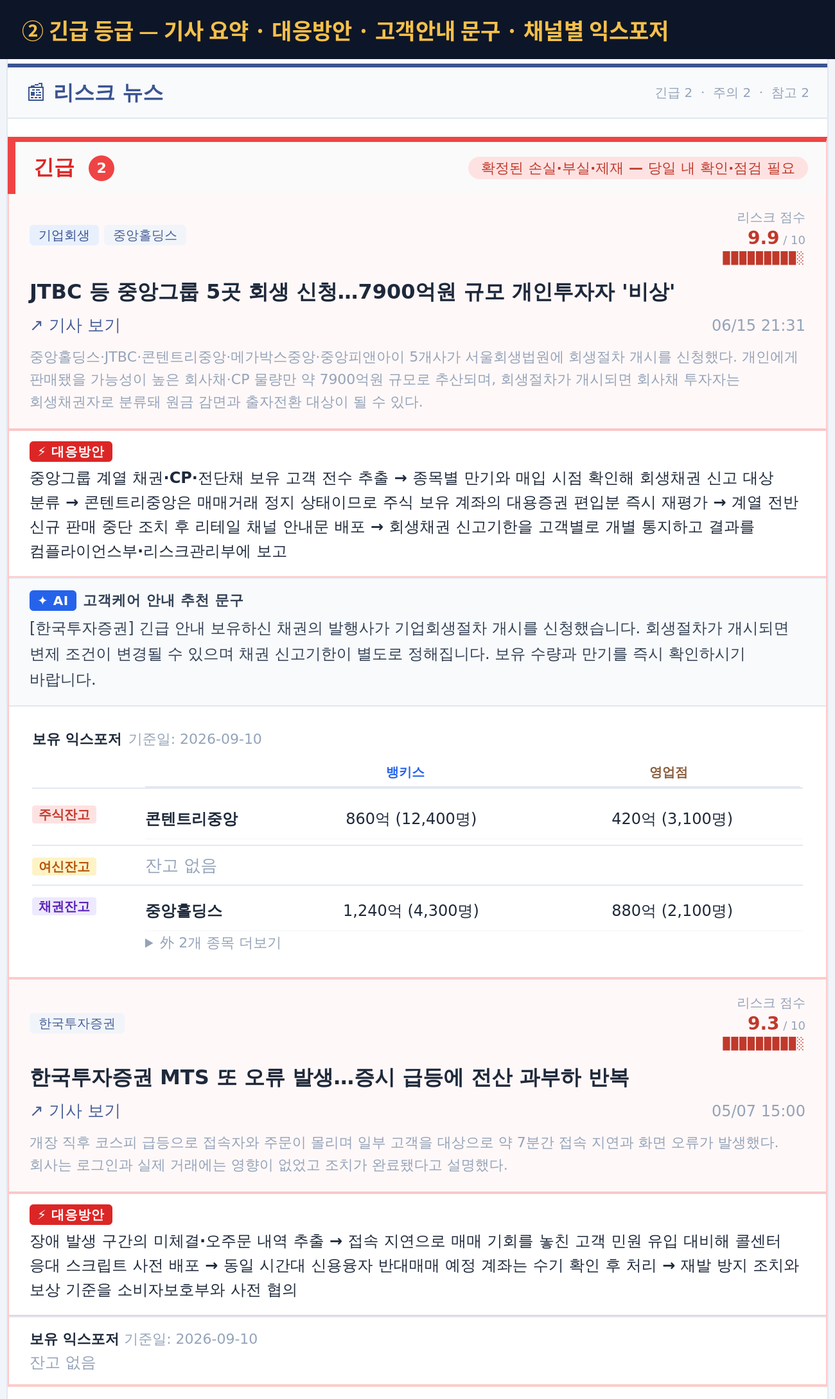
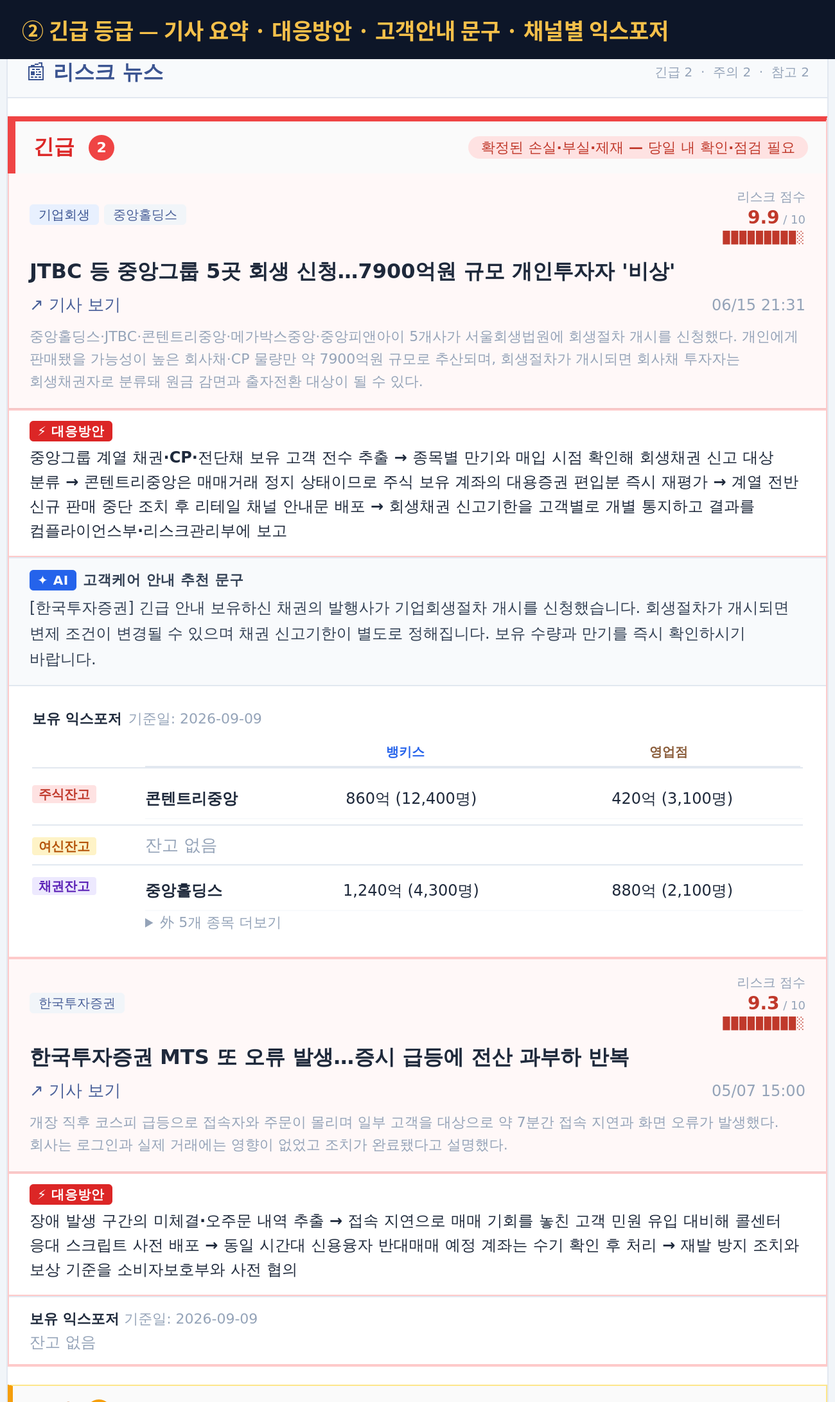
기준일 9/9 · 스페이스X 잔고 추가 · 중앙그룹 채권 6종목 반영

diff --git a/index.html b/index.html
@@ -66,7 +66,7 @@
           <td valign="middle">
             <p style="margin:0 0 4px 0;font-size:19px;font-weight:bold;color:#ffffff;">🤖 리스크 탐지봇</p>
             <p style="margin:0 0 3px 0;font-size:10px;color:#c8d8f0;text-align:right;">Claude Sonnet / Gemini 3.5-flash-lite</p>
-            <p style="margin:0;font-size:13px;color:#c8d8f0;">2026년 09월 10일 07:00 기준 (KST)</p>
+            <p style="margin:0;font-size:13px;color:#c8d8f0;">2026년 09월 09일 07:00 기준 (KST)</p>
           </td>
         </tr>
       </table>
@@ -94,7 +94,7 @@
           <table width="100%" cellpadding="0" cellspacing="0" border="0">
             <tr>
               <td><span style="font-size:15px;font-weight:bold;color:#3b5491;">경쟁사 신용·대출 특이사항</span></td>
-              <td align="right"><span style="font-size:12px;color:#94a3b8;">2026-09-10 당일 기준</span></td>
+              <td align="right"><span style="font-size:12px;color:#94a3b8;">2026-09-09 당일 기준</span></td>
             </tr>
           </table>
         </td>
@@ -116,77 +116,7 @@
       </tr>
     </table></td></tr>
 
-  <tr><td style="padding:0;">
-    <table width="100%" cellpadding="0" cellspacing="0" border="0" style="margin-top:14px;border:1px solid #e2e8f0;border-top:3px solid #475569;">
-      <tr>
-        <td bgcolor="#1e293b" style="padding:10px 14px;background:#1e293b;">
-          <table width="100%" cellpadding="0" cellspacing="0" border="0">
-            <tr>
-              <td style="font-size:14px;font-weight:500;color:#f8fafc;white-space:nowrap;">📉 여신잔고 리스크 현황</td>
-              <td align="right" style="font-size:11px;padding-left:10px;white-space:nowrap;"><span style="color:#2563eb;">●</span><span style="color:#ffffff;font-weight:700;"> 뱅키스</span> &nbsp;<span style="color:#8b5e3c;">●</span><span style="color:#ffffff;font-weight:700;"> 영업점</span></td>
-            </tr>
-            <tr>
-              <td colspan="2" style="padding-top:3px;">
-                <span style="font-size:12px;color:#fbbf24;">⚠ 위험고객: 단일종목 여신잔고 1억원이상 · 담보유지비율 140%~150%</span>
-              </td>
-            </tr>
-            <tr>
-              <td colspan="2" class="loan-hdr-right" style="font-size:11px;color:#94a3b8;padding-top:2px;white-space:nowrap;">단일종목 여신잔고 1억↑ 종목 6개 · 09월 10일 기준</td>
-            </tr>
-          </table>
-        </td>
-      </tr>
-      <tr><td bgcolor="#ffffff" style="background:#ffffff;">
-        <!--[if mso]><table width="100%" cellpadding="0" cellspacing="0" border="0"><tr>
-          <td width="16%"><![endif]-->
-        <table cellpadding="0" cellspacing="0" border="0" class="price-alert-table" style="border-collapse:collapse;width:100%;">
-
-          <thead>
-            <tr bgcolor="#f8fafc" style="background:#f8fafc;border-bottom:1px solid #e2e8f0;">
-              <th style="padding:7px 3px;font-size:11px;color:#64748b;font-weight:500;text-align:center;">종목명</th>
-              <th style="padding:7px 3px;font-size:11px;color:#64748b;font-weight:500;text-align:center;">전체 여신</th>
-              <th style="padding:7px 3px;font-size:11px;color:#d97706;font-weight:600;text-align:center;">⚠ 위험고객</th>
-              <th style="padding:7px 3px;font-size:11px;color:#dc2626;font-weight:600;text-align:center;">최고 리스크</th>
-            </tr>
-          </thead>
-          <tbody>
-            <tr style="background:#fafcff;border-bottom:1px solid #f1f5f9;">
-              <td class="price-alert-td" style="padding:8px 3px;text-align:center;white-space:nowrap;">
-                <div style="font-size:13px;font-weight:600;color:#1e293b;">삼성전자</div>
-                <div style="font-size:10px;font-weight:700;color:#2563eb;margin-top:2px;">▼4.2%</div>
-              </td>
-              <td class="price-alert-td" style="padding:8px 3px;font-size:11px;font-weight:600;text-align:center;white-space:nowrap;"><div style="color:#2563eb;">● 4,820억 (11,400명)</div><div style="margin-top:3px;color:#8b5e3c;">● 3,260억 (2,140명)</div></td>
-              <td style="padding:8px 3px;font-size:11px;font-weight:600;text-align:center;white-space:nowrap;"><div style="color:#2563eb;">● 214억 (86명)</div><div style="margin-top:3px;color:#8b5e3c;">● 72억 (17명)</div></td>
-              <td style="padding:8px 3px;font-size:11px;font-weight:600;text-align:center;white-space:nowrap;"><div><span style="color:#2563eb;">●</span> <span style="color:#dc2626;font-weight:700;">141%</span> <span style="color:#64748b;font-weight:400;">(31억·홍*동)</span></div><div style="margin-top:3px;"><span style="color:#8b5e3c;">●</span> <span style="color:#dc2626;font-weight:700;">144%</span> <span style="color:#64748b;font-weight:400;">(26억·강*우)</span></div></td>
-            </tr>
-            <tr style="background:#ffffff;border-bottom:1px solid #f1f5f9;">
-              <td class="price-alert-td" style="padding:8px 3px;text-align:center;white-space:nowrap;">
-                <div style="font-size:13px;font-weight:600;color:#1e293b;">SK하이닉스</div>
-                <div style="font-size:10px;font-weight:700;color:#2563eb;margin-top:2px;">▼6.8%</div>
-              </td>
-              <td class="price-alert-td" style="padding:8px 3px;font-size:11px;font-weight:600;text-align:center;white-space:nowrap;"><div style="color:#2563eb;">● 5,140억 (9,860명)</div><div style="margin-top:3px;color:#8b5e3c;">● 3,980억 (1,760명)</div></td>
-              <td style="padding:8px 3px;font-size:11px;font-weight:600;text-align:center;white-space:nowrap;"><div style="color:#2563eb;">● 196억 (74명)</div><div style="margin-top:3px;color:#8b5e3c;">● 63억 (14명)</div></td>
-              <td style="padding:8px 3px;font-size:11px;font-weight:600;text-align:center;white-space:nowrap;"><div><span style="color:#2563eb;">●</span> <span style="color:#dc2626;font-weight:700;">143%</span> <span style="color:#64748b;font-weight:400;">(28억·서*민)</span></div><div style="margin-top:3px;"><span style="color:#8b5e3c;">●</span> <span style="color:#dc2626;font-weight:700;">146%</span> <span style="color:#64748b;font-weight:400;">(22억·오*재)</span></div></td>
-            </tr>
-            <tr style="background:#fafcff;border-bottom:1px solid #f1f5f9;">
-              <td class="price-alert-td" style="padding:8px 3px;text-align:center;white-space:nowrap;">
-                <div style="font-size:13px;font-weight:600;color:#1e293b;">에코프로비엠</div>
-                <div style="font-size:10px;font-weight:700;color:#2563eb;margin-top:2px;">▼7.4%</div>
-              </td>
-              <td class="price-alert-td" style="padding:8px 3px;font-size:11px;font-weight:600;text-align:center;white-space:nowrap;"><div style="color:#2563eb;">● 1,420억 (3,180명)</div><div style="margin-top:3px;color:#8b5e3c;">● 980억 (720명)</div></td>
-              <td style="padding:8px 3px;font-size:11px;font-weight:600;text-align:center;white-space:nowrap;"><div style="color:#2563eb;">● 88억 (42명)</div><div style="margin-top:3px;color:#8b5e3c;">● 31억 (9명)</div></td>
-              <td style="padding:8px 3px;font-size:11px;font-weight:600;text-align:center;white-space:nowrap;"><div><span style="color:#2563eb;">●</span> <span style="color:#dc2626;font-weight:700;">144%</span> <span style="color:#64748b;font-weight:400;">(12억·정*훈)</span></div><div style="margin-top:3px;"><span style="color:#8b5e3c;">●</span> <span style="color:#dc2626;font-weight:700;">148%</span> <span style="color:#64748b;font-weight:400;">(14억·배*연)</span></div></td>
-            </tr>
-            <tr style="background:#fff3cd;"><td colspan="4" style="padding:8px 10px;font-size:11px;color:#92400e;font-weight:600;border-top:1px solid #fde68a;">&#9888; 외 3개 종목 추가 탐지 — 담당자 즉시 확인 <span style="font-weight:400;color:#b45309;font-size:10px;">(두산에너빌리티, 포스코퓨처엠, 한화오션)</span></td></tr>
-            <tr bgcolor="#fafafa" style="background:#fafafa;">
-              <td colspan="4" style="padding:7px 10px;font-size:12px;color:#94a3b8;border-top:1px solid #e2e8f0;">
-                가격·등락률 출처: 야후파이낸스 (15분 지연) &nbsp;·&nbsp; 당일 -3% 초과 하락 + 위험고객 보유 종목만 표시
-              </td>
-            </tr>
-          </tbody>
-        </table>
-      </td></tr>
-    </table></td></tr>
+  <tr><td style="padding:0;"></td></tr>
 
   <tr><td style="padding:0;">
     <table width="100%" cellpadding="0" cellspacing="0" border="0" style="margin-top:14px;border-top:3px solid #3b5491;border-bottom:1px solid #e2e8f0;background:#f8fafc;">
@@ -234,8 +164,8 @@
           </tr>
           <tr><td bgcolor="#fff8f8" style="background:#fff8f8;border-top:1px solid #fecaca;padding:0;"><table width="100%" cellpadding="0" cellspacing="0" border="0"><tr><td class="action-td" bgcolor="#ffffff" style="padding:10px 16px;border-bottom:1px solid #fecaca;background:#ffffff;"><p style="margin:0 0 5px 0;font-size:11px;font-weight:bold;letter-spacing:0.3px;"><span style="background:#dc2626;color:#fff;padding:2px 6px;font-size:10px;margin-right:5px;border-radius:3px;">⚡ 대응방안</span></p><p style="margin:0;font-size:12px;color:#1e293b;line-height:1.6;font-weight:600;word-break:keep-all;">중앙그룹 계열 채권·CP·전단채 보유 고객 전수 추출 → 종목별 만기와 매입 시점 확인해 회생채권 신고 대상 분류 → 콘텐트리중앙은 매매거래 정지 상태이므로 주식 보유 계좌의 대용증권 편입분 즉시 재평가 → 계열 전반 신규 판매 중단 조치 후 리테일 채널 안내문 배포 → 회생채권 신고기한을 고객별로 개별 통지하고 결과를 컴플라이언스부·리스크관리부에 보고</p></td></tr><tr><td class="care-td" bgcolor="#f8fafc" style="padding:10px 16px;background:#f8fafc;border-top:1px solid #e2e8f0;"><p style="margin:0 0 5px 0;font-size:11px;font-weight:bold;letter-spacing:0.3px;"><span style="background:#2563eb;color:#fff;padding:2px 6px;font-size:10px;margin-right:5px;border-radius:3px;">✦ AI</span><span style="color:#334155;">고객케어 안내 추천 문구</span></p><p style="margin:0;font-size:12px;color:#334155;line-height:1.7;white-space:pre-line;word-break:keep-all;">[한국투자증권] 긴급 안내 보유하신 채권의 발행사가 기업회생절차 개시를 신청했습니다. 회생절차가 개시되면 변제 조건이 변경될 수 있으며 채권 신고기한이 별도로 정해집니다. 보유 수량과 만기를 즉시 확인하시기 바랍니다.</p></td></tr><tr><td style="padding:0;border-top:1px solid #e2e8f0;border-bottom:1px solid #fecaca;background:#ffffff;"><table width="100%" cellpadding="0" cellspacing="0" border="0" style="background:#ffffff;">
       <tr><td class="exp-card-td" style="padding:14px 18px;">
-        <p style="margin:0 0 10px 0;"><span style="font-size:11px;font-weight:700;color:#1e293b;">보유 익스포저</span> <span style="font-weight:400;color:#94a3b8;font-size:11px;">기준일: 2026-09-10</span></p>
-        <table width="100%" cellpadding="0" cellspacing="0" border="0" style="margin-bottom:8px;"><tr><td style="width:80px;border-bottom:1px solid #e2e8f0;">&nbsp;</td><td style="padding-left:8px;border-bottom:1px solid #e2e8f0;"><table cellpadding="0" cellspacing="0" border="0" style="border-collapse:collapse;table-layout:fixed;"><tr><td class="exp-name-td" width="100" style="border-bottom:1px solid #e2e8f0;">&nbsp;</td><td class="exp-val-td" width="205" align="center" style="box-sizing:border-box;text-align:center;padding:2px 6px 5px;font-size:10px;font-weight:700;color:#2563eb;border-bottom:1px solid #e2e8f0;white-space:nowrap;">뱅키스</td><td class="exp-val-td" width="205" align="center" style="box-sizing:border-box;text-align:center;padding:2px 6px 5px;font-size:10px;font-weight:700;color:#8b5e3c;border-bottom:1px solid #e2e8f0;white-space:nowrap;">영업점</td></tr></table></td></tr></table><table width="100%" cellpadding="0" cellspacing="0" border="0" style="margin-bottom:4px;"><tr><td valign="top" style="padding-top:6px;width:80px;white-space:nowrap;"><span style="font-size:10px;background:#fee2e2;color:#c0392b;padding:1px 5px;border-radius:2px;font-weight:700;">주식잔고</span></td><td style="padding-left:8px;"><table cellpadding="0" cellspacing="0" border="0" style="border-collapse:collapse;table-layout:fixed;"><tr style="border-bottom:1px solid #f8fafc;"><td class="exp-name-td" width="100" style="font-size:12px;font-weight:700;color:#1e293b;padding:8px 6px 8px 0;white-space:nowrap;vertical-align:top;"><div style="max-width:100%;overflow:hidden;text-overflow:ellipsis;white-space:nowrap;">콘텐트리중앙</div></td><td class="exp-val-td" width="205" align="center" style="box-sizing:border-box;text-align:center;font-size:12px;color:#1e293b;padding:8px 6px;white-space:nowrap;vertical-align:top;">860억 (12,400명)</td><td class="exp-val-td" width="205" align="center" style="box-sizing:border-box;text-align:center;font-size:12px;color:#1e293b;padding:8px 6px;white-space:nowrap;vertical-align:top;">420억 (3,100명)</td></tr></table></td></tr></table><table width="100%" cellpadding="0" cellspacing="0" border="0" style="margin:4px 0;"><tr><td style="height:1px;background:#e2e8f0;font-size:0;line-height:0;">&nbsp;</td></tr></table><table width="100%" cellpadding="0" cellspacing="0" border="0" style="margin-bottom:4px;"><tr><td valign="top" style="padding-top:6px;width:80px;white-space:nowrap;"><span style="font-size:10px;background:#fef3c7;color:#b45309;padding:1px 5px;border-radius:2px;font-weight:700;">여신잔고</span></td><td style="padding-left:8px;"><div style="font-size:13px;color:#94a3b8;line-height:1.7;">잔고 없음</div></td></tr></table><table width="100%" cellpadding="0" cellspacing="0" border="0" style="margin:4px 0;"><tr><td style="height:1px;background:#e2e8f0;font-size:0;line-height:0;">&nbsp;</td></tr></table><table width="100%" cellpadding="0" cellspacing="0" border="0" style="margin-bottom:4px;"><tr><td valign="top" style="padding-top:6px;width:80px;white-space:nowrap;"><span style="font-size:10px;background:#ede9fe;color:#5b21b6;padding:1px 5px;border-radius:2px;font-weight:700;">채권잔고</span></td><td style="padding-left:8px;"><table cellpadding="0" cellspacing="0" border="0" style="border-collapse:collapse;table-layout:fixed;"><tr style="border-bottom:1px solid #f8fafc;"><td class="exp-name-td" width="100" style="font-size:12px;font-weight:700;color:#1e293b;padding:8px 6px 8px 0;white-space:nowrap;vertical-align:top;"><div style="max-width:100%;overflow:hidden;text-overflow:ellipsis;white-space:nowrap;">중앙홀딩스</div></td><td class="exp-val-td" width="205" align="center" style="box-sizing:border-box;text-align:center;font-size:12px;color:#1e293b;padding:8px 6px;white-space:nowrap;vertical-align:top;">1,240억 (4,300명)</td><td class="exp-val-td" width="205" align="center" style="box-sizing:border-box;text-align:center;font-size:12px;color:#1e293b;padding:8px 6px;white-space:nowrap;vertical-align:top;">880억 (2,100명)</td></tr></table><details style="margin-top:0;"><summary style="cursor:pointer;list-style:revert;padding:2px 0;font-size:11px;color:#94a3b8;">外 2개 종목 더보기</summary><table cellpadding="0" cellspacing="0" border="0" style="border-collapse:collapse;table-layout:fixed;"><tr style="border-bottom:1px solid #f8fafc;"><td class="exp-name-td" width="100" style="font-size:12px;font-weight:700;color:#1e293b;padding:8px 6px 8px 0;white-space:nowrap;vertical-align:top;"><div style="max-width:100%;overflow:hidden;text-overflow:ellipsis;white-space:nowrap;">JTBC</div></td><td class="exp-val-td" width="205" align="center" style="box-sizing:border-box;text-align:center;font-size:12px;color:#1e293b;padding:8px 6px;white-space:nowrap;vertical-align:top;">610억 (2,260명)</td><td class="exp-val-td" width="205" align="center" style="box-sizing:border-box;text-align:center;font-size:12px;color:#1e293b;padding:8px 6px;white-space:nowrap;vertical-align:top;">430억 (1,320명)</td></tr><tr style="border-bottom:1px solid #f8fafc;"><td class="exp-name-td" width="100" style="font-size:12px;font-weight:700;color:#1e293b;padding:8px 6px 8px 0;white-space:nowrap;vertical-align:top;"><div style="max-width:100%;overflow:hidden;text-overflow:ellipsis;white-space:nowrap;">메가박스중앙</div></td><td class="exp-val-td" width="205" align="center" style="box-sizing:border-box;text-align:center;font-size:12px;color:#1e293b;padding:8px 6px;white-space:nowrap;vertical-align:top;">540억 (1,980명)</td><td class="exp-val-td" width="205" align="center" style="box-sizing:border-box;text-align:center;font-size:12px;color:#1e293b;padding:8px 6px;white-space:nowrap;vertical-align:top;">380억 (1,140명)</td></tr></table></details></td></tr></table>
+        <p style="margin:0 0 10px 0;"><span style="font-size:11px;font-weight:700;color:#1e293b;">보유 익스포저</span> <span style="font-weight:400;color:#94a3b8;font-size:11px;">기준일: 2026-09-09</span></p>
+        <table width="100%" cellpadding="0" cellspacing="0" border="0" style="margin-bottom:8px;"><tr><td style="width:80px;border-bottom:1px solid #e2e8f0;">&nbsp;</td><td style="padding-left:8px;border-bottom:1px solid #e2e8f0;"><table cellpadding="0" cellspacing="0" border="0" style="border-collapse:collapse;table-layout:fixed;"><tr><td class="exp-name-td" width="100" style="border-bottom:1px solid #e2e8f0;">&nbsp;</td><td class="exp-val-td" width="205" align="center" style="box-sizing:border-box;text-align:center;padding:2px 6px 5px;font-size:10px;font-weight:700;color:#2563eb;border-bottom:1px solid #e2e8f0;white-space:nowrap;">뱅키스</td><td class="exp-val-td" width="205" align="center" style="box-sizing:border-box;text-align:center;padding:2px 6px 5px;font-size:10px;font-weight:700;color:#8b5e3c;border-bottom:1px solid #e2e8f0;white-space:nowrap;">영업점</td></tr></table></td></tr></table><table width="100%" cellpadding="0" cellspacing="0" border="0" style="margin-bottom:4px;"><tr><td valign="top" style="padding-top:6px;width:80px;white-space:nowrap;"><span style="font-size:10px;background:#fee2e2;color:#c0392b;padding:1px 5px;border-radius:2px;font-weight:700;">주식잔고</span></td><td style="padding-left:8px;"><table cellpadding="0" cellspacing="0" border="0" style="border-collapse:collapse;table-layout:fixed;"><tr style="border-bottom:1px solid #f8fafc;"><td class="exp-name-td" width="100" style="font-size:12px;font-weight:700;color:#1e293b;padding:8px 6px 8px 0;white-space:nowrap;vertical-align:top;"><div style="max-width:100%;overflow:hidden;text-overflow:ellipsis;white-space:nowrap;">콘텐트리중앙</div></td><td class="exp-val-td" width="205" align="center" style="box-sizing:border-box;text-align:center;font-size:12px;color:#1e293b;padding:8px 6px;white-space:nowrap;vertical-align:top;">860억 (12,400명)</td><td class="exp-val-td" width="205" align="center" style="box-sizing:border-box;text-align:center;font-size:12px;color:#1e293b;padding:8px 6px;white-space:nowrap;vertical-align:top;">420억 (3,100명)</td></tr></table></td></tr></table><table width="100%" cellpadding="0" cellspacing="0" border="0" style="margin:4px 0;"><tr><td style="height:1px;background:#e2e8f0;font-size:0;line-height:0;">&nbsp;</td></tr></table><table width="100%" cellpadding="0" cellspacing="0" border="0" style="margin-bottom:4px;"><tr><td valign="top" style="padding-top:6px;width:80px;white-space:nowrap;"><span style="font-size:10px;background:#fef3c7;color:#b45309;padding:1px 5px;border-radius:2px;font-weight:700;">여신잔고</span></td><td style="padding-left:8px;"><div style="font-size:13px;color:#94a3b8;line-height:1.7;">잔고 없음</div></td></tr></table><table width="100%" cellpadding="0" cellspacing="0" border="0" style="margin:4px 0;"><tr><td style="height:1px;background:#e2e8f0;font-size:0;line-height:0;">&nbsp;</td></tr></table><table width="100%" cellpadding="0" cellspacing="0" border="0" style="margin-bottom:4px;"><tr><td valign="top" style="padding-top:6px;width:80px;white-space:nowrap;"><span style="font-size:10px;background:#ede9fe;color:#5b21b6;padding:1px 5px;border-radius:2px;font-weight:700;">채권잔고</span></td><td style="padding-left:8px;"><table cellpadding="0" cellspacing="0" border="0" style="border-collapse:collapse;table-layout:fixed;"><tr style="border-bottom:1px solid #f8fafc;"><td class="exp-name-td" width="100" style="font-size:12px;font-weight:700;color:#1e293b;padding:8px 6px 8px 0;white-space:nowrap;vertical-align:top;"><div style="max-width:100%;overflow:hidden;text-overflow:ellipsis;white-space:nowrap;">중앙홀딩스</div></td><td class="exp-val-td" width="205" align="center" style="box-sizing:border-box;text-align:center;font-size:12px;color:#1e293b;padding:8px 6px;white-space:nowrap;vertical-align:top;">1,240억 (4,300명)</td><td class="exp-val-td" width="205" align="center" style="box-sizing:border-box;text-align:center;font-size:12px;color:#1e293b;padding:8px 6px;white-space:nowrap;vertical-align:top;">880억 (2,100명)</td></tr></table><details style="margin-top:0;"><summary style="cursor:pointer;list-style:revert;padding:2px 0;font-size:11px;color:#94a3b8;">外 5개 종목 더보기</summary><table cellpadding="0" cellspacing="0" border="0" style="border-collapse:collapse;table-layout:fixed;"><tr style="border-bottom:1px solid #f8fafc;"><td class="exp-name-td" width="100" style="font-size:12px;font-weight:700;color:#1e293b;padding:8px 6px 8px 0;white-space:nowrap;vertical-align:top;"><div style="max-width:100%;overflow:hidden;text-overflow:ellipsis;white-space:nowrap;">제이티비씨</div></td><td class="exp-val-td" width="205" align="center" style="box-sizing:border-box;text-align:center;font-size:12px;color:#1e293b;padding:8px 6px;white-space:nowrap;vertical-align:top;">1,080억 (3,960명)</td><td class="exp-val-td" width="205" align="center" style="box-sizing:border-box;text-align:center;font-size:12px;color:#1e293b;padding:8px 6px;white-space:nowrap;vertical-align:top;">640억 (1,820명)</td></tr><tr style="border-bottom:1px solid #f8fafc;"><td class="exp-name-td" width="100" style="font-size:12px;font-weight:700;color:#1e293b;padding:8px 6px 8px 0;white-space:nowrap;vertical-align:top;"><div style="max-width:100%;overflow:hidden;text-overflow:ellipsis;white-space:nowrap;">중앙일보</div></td><td class="exp-val-td" width="205" align="center" style="box-sizing:border-box;text-align:center;font-size:12px;color:#1e293b;padding:8px 6px;white-space:nowrap;vertical-align:top;">760억 (2,840명)</td><td class="exp-val-td" width="205" align="center" style="box-sizing:border-box;text-align:center;font-size:12px;color:#1e293b;padding:8px 6px;white-space:nowrap;vertical-align:top;">510억 (1,460명)</td></tr><tr style="border-bottom:1px solid #f8fafc;"><td class="exp-name-td" width="100" style="font-size:12px;font-weight:700;color:#1e293b;padding:8px 6px 8px 0;white-space:nowrap;vertical-align:top;"><div style="max-width:100%;overflow:hidden;text-overflow:ellipsis;white-space:nowrap;">에스엘엘중앙</div></td><td class="exp-val-td" width="205" align="center" style="box-sizing:border-box;text-align:center;font-size:12px;color:#1e293b;padding:8px 6px;white-space:nowrap;vertical-align:top;">620억 (2,180명)</td><td class="exp-val-td" width="205" align="center" style="box-sizing:border-box;text-align:center;font-size:12px;color:#1e293b;padding:8px 6px;white-space:nowrap;vertical-align:top;">390억 (1,120명)</td></tr><tr style="border-bottom:1px solid #f8fafc;"><td class="exp-name-td" width="100" style="font-size:12px;font-weight:700;color:#1e293b;padding:8px 6px 8px 0;white-space:nowrap;vertical-align:top;"><div style="max-width:100%;overflow:hidden;text-overflow:ellipsis;white-space:nowrap;">메가박스중앙</div></td><td class="exp-val-td" width="205" align="center" style="box-sizing:border-box;text-align:center;font-size:12px;color:#1e293b;padding:8px 6px;white-space:nowrap;vertical-align:top;">540억 (1,980명)</td><td class="exp-val-td" width="205" align="center" style="box-sizing:border-box;text-align:center;font-size:12px;color:#1e293b;padding:8px 6px;white-space:nowrap;vertical-align:top;">380억 (1,140명)</td></tr><tr style="border-bottom:1px solid #f8fafc;"><td class="exp-name-td" width="100" style="font-size:12px;font-weight:700;color:#1e293b;padding:8px 6px 8px 0;white-space:nowrap;vertical-align:top;"><div style="max-width:100%;overflow:hidden;text-overflow:ellipsis;white-space:nowrap;">중앙피앤아이</div></td><td class="exp-val-td" width="205" align="center" style="box-sizing:border-box;text-align:center;font-size:12px;color:#1e293b;padding:8px 6px;white-space:nowrap;vertical-align:top;">310억 (1,240명)</td><td class="exp-val-td" width="205" align="center" style="box-sizing:border-box;text-align:center;font-size:12px;color:#1e293b;padding:8px 6px;white-space:nowrap;vertical-align:top;">180억 (640명)</td></tr></table></details></td></tr></table>
       </td></tr>
     </table></td></tr></table></td></tr>
         </table>
@@ -261,7 +191,7 @@
           <tr><td bgcolor="#fff8f8" style="background:#fff8f8;border-top:1px solid #fecaca;padding:0;"><table width="100%" cellpadding="0" cellspacing="0" border="0"><tr><td class="action-td" bgcolor="#ffffff" style="padding:10px 16px;border-bottom:1px solid #fecaca;background:#ffffff;"><p style="margin:0 0 5px 0;font-size:11px;font-weight:bold;letter-spacing:0.3px;"><span style="background:#dc2626;color:#fff;padding:2px 6px;font-size:10px;margin-right:5px;border-radius:3px;">⚡ 대응방안</span></p><p style="margin:0;font-size:12px;color:#1e293b;line-height:1.6;font-weight:600;word-break:keep-all;">장애 발생 구간의 미체결·오주문 내역 추출 → 접속 지연으로 매매 기회를 놓친 고객 민원 유입 대비해 콜센터 응대 스크립트 사전 배포 → 동일 시간대 신용융자 반대매매 예정 계좌는 수기 확인 후 처리 → 재발 방지 조치와 보상 기준을 소비자보호부와 사전 협의</p></td></tr><tr><td style="padding:0;border-top:1px solid #e2e8f0;border-bottom:1px solid #fecaca;background:#ffffff;"><table width="100%" cellpadding="0" cellspacing="0" border="0" style="background:#ffffff;">
       <tr><td style="padding:10px 16px;">
         <p style="margin:0 0 4px 0;font-size:11px;font-weight:700;color:#1e293b;">보유 익스포저
-          <span style="font-weight:400;color:#94a3b8;">기준일: 2026-09-10</span>
+          <span style="font-weight:400;color:#94a3b8;">기준일: 2026-09-09</span>
         </p>
         <div style="font-size:12px;color:#94a3b8;">잔고 없음</div>
       </td></tr>
@@ -298,8 +228,8 @@
           </tr>
           <tr><td style="padding:10px 16px;background:#ffffff;border-top:1px solid #fde68a;border-bottom:1px solid #fde68a;"><p style="margin:0 0 5px 0;font-size:11px;font-weight:bold;letter-spacing:0.3px;"><span style="background:#dc2626;color:#fff;padding:2px 6px;font-size:10px;margin-right:5px;border-radius:3px;">⚡ 대응방안</span></p><p style="margin:0;font-size:13px;color:#1e293b;line-height:1.6;font-weight:500;word-break:keep-all;">테슬라 보유 고객 평가손 구간별 산출 → 외화 신용융자·미수 사용 계좌 우선 분류해 담보 비율 재점검 → 환율 변동이 겹치는 계좌는 원화 환산 손실을 별도 산출 → 손실 구간 상위 고객 대상 포트폴리오 점검 안내 발송 검토</p></td></tr><tr><td style="padding:0;"><table width="100%" cellpadding="0" cellspacing="0" border="0" style="background:#ffffff;">
       <tr><td class="exp-card-td" style="padding:14px 18px;">
-        <p style="margin:0 0 10px 0;"><span style="font-size:11px;font-weight:700;color:#1e293b;">보유 익스포저</span> <span style="font-weight:400;color:#94a3b8;font-size:11px;">기준일: 2026-09-10</span></p>
-        <table width="100%" cellpadding="0" cellspacing="0" border="0" style="margin-bottom:8px;"><tr><td style="width:80px;border-bottom:1px solid #e2e8f0;">&nbsp;</td><td style="padding-left:8px;border-bottom:1px solid #e2e8f0;"><table cellpadding="0" cellspacing="0" border="0" style="border-collapse:collapse;table-layout:fixed;"><tr><td class="exp-name-td" width="100" style="border-bottom:1px solid #e2e8f0;">&nbsp;</td><td class="exp-val-td" width="205" align="center" style="box-sizing:border-box;text-align:center;padding:2px 6px 5px;font-size:10px;font-weight:700;color:#2563eb;border-bottom:1px solid #e2e8f0;white-space:nowrap;">뱅키스</td><td class="exp-val-td" width="205" align="center" style="box-sizing:border-box;text-align:center;padding:2px 6px 5px;font-size:10px;font-weight:700;color:#8b5e3c;border-bottom:1px solid #e2e8f0;white-space:nowrap;">영업점</td></tr></table></td></tr></table><table width="100%" cellpadding="0" cellspacing="0" border="0" style="margin-bottom:4px;"><tr><td valign="top" style="padding-top:6px;width:80px;white-space:nowrap;"><span style="font-size:10px;background:#fee2e2;color:#c0392b;padding:1px 5px;border-radius:2px;font-weight:700;">주식잔고</span></td><td style="padding-left:8px;"><table cellpadding="0" cellspacing="0" border="0" style="border-collapse:collapse;table-layout:fixed;"><tr style="border-bottom:1px solid #f8fafc;"><td class="exp-name-td" width="100" style="font-size:12px;font-weight:700;color:#1e293b;padding:8px 6px 8px 0;white-space:nowrap;vertical-align:top;"><div style="max-width:100%;overflow:hidden;text-overflow:ellipsis;white-space:nowrap;">테슬라</div></td><td class="exp-val-td" width="205" align="center" style="box-sizing:border-box;text-align:center;font-size:12px;color:#1e293b;padding:8px 6px;white-space:nowrap;vertical-align:top;">8,420억 (62,300명)</td><td class="exp-val-td" width="205" align="center" style="box-sizing:border-box;text-align:center;font-size:12px;color:#1e293b;padding:8px 6px;white-space:nowrap;vertical-align:top;">3,140억 (9,800명)</td></tr></table></td></tr></table><table width="100%" cellpadding="0" cellspacing="0" border="0" style="margin:4px 0;"><tr><td style="height:1px;background:#e2e8f0;font-size:0;line-height:0;">&nbsp;</td></tr></table><table width="100%" cellpadding="0" cellspacing="0" border="0" style="margin-bottom:4px;"><tr><td valign="top" style="padding-top:6px;width:80px;white-space:nowrap;"><span style="font-size:10px;background:#fef3c7;color:#b45309;padding:1px 5px;border-radius:2px;font-weight:700;">여신잔고</span></td><td style="padding-left:8px;"><div style="font-size:13px;color:#94a3b8;line-height:1.7;">잔고 없음</div></td></tr></table>
+        <p style="margin:0 0 10px 0;"><span style="font-size:11px;font-weight:700;color:#1e293b;">보유 익스포저</span> <span style="font-weight:400;color:#94a3b8;font-size:11px;">기준일: 2026-09-09</span></p>
+        <table width="100%" cellpadding="0" cellspacing="0" border="0" style="margin-bottom:8px;"><tr><td style="width:80px;border-bottom:1px solid #e2e8f0;">&nbsp;</td><td style="padding-left:8px;border-bottom:1px solid #e2e8f0;"><table cellpadding="0" cellspacing="0" border="0" style="border-collapse:collapse;table-layout:fixed;"><tr><td class="exp-name-td" width="100" style="border-bottom:1px solid #e2e8f0;">&nbsp;</td><td class="exp-val-td" width="205" align="center" style="box-sizing:border-box;text-align:center;padding:2px 6px 5px;font-size:10px;font-weight:700;color:#2563eb;border-bottom:1px solid #e2e8f0;white-space:nowrap;">뱅키스</td><td class="exp-val-td" width="205" align="center" style="box-sizing:border-box;text-align:center;padding:2px 6px 5px;font-size:10px;font-weight:700;color:#8b5e3c;border-bottom:1px solid #e2e8f0;white-space:nowrap;">영업점</td></tr></table></td></tr></table><table width="100%" cellpadding="0" cellspacing="0" border="0" style="margin-bottom:4px;"><tr><td valign="top" style="padding-top:6px;width:80px;white-space:nowrap;"><span style="font-size:10px;background:#fee2e2;color:#c0392b;padding:1px 5px;border-radius:2px;font-weight:700;">주식잔고</span></td><td style="padding-left:8px;"><table cellpadding="0" cellspacing="0" border="0" style="border-collapse:collapse;table-layout:fixed;"><tr style="border-bottom:1px solid #f8fafc;"><td class="exp-name-td" width="100" style="font-size:12px;font-weight:700;color:#1e293b;padding:8px 6px 8px 0;white-space:nowrap;vertical-align:top;"><div style="max-width:100%;overflow:hidden;text-overflow:ellipsis;white-space:nowrap;">테슬라</div></td><td class="exp-val-td" width="205" align="center" style="box-sizing:border-box;text-align:center;font-size:12px;color:#1e293b;padding:8px 6px;white-space:nowrap;vertical-align:top;">8,420억 (62,300명)</td><td class="exp-val-td" width="205" align="center" style="box-sizing:border-box;text-align:center;font-size:12px;color:#1e293b;padding:8px 6px;white-space:nowrap;vertical-align:top;">3,140억 (9,800명)</td></tr></table><details style="margin-top:0;"><summary style="cursor:pointer;list-style:revert;padding:2px 0;font-size:11px;color:#94a3b8;">外 1개 종목 더보기</summary><table cellpadding="0" cellspacing="0" border="0" style="border-collapse:collapse;table-layout:fixed;"><tr style="border-bottom:1px solid #f8fafc;"><td class="exp-name-td" width="100" style="font-size:12px;font-weight:700;color:#1e293b;padding:8px 6px 8px 0;white-space:nowrap;vertical-align:top;"><div style="max-width:100%;overflow:hidden;text-overflow:ellipsis;white-space:nowrap;">스페이스엑스</div></td><td class="exp-val-td" width="205" align="center" style="box-sizing:border-box;text-align:center;font-size:12px;color:#1e293b;padding:8px 6px;white-space:nowrap;vertical-align:top;">4,260억 (38,700명)</td><td class="exp-val-td" width="205" align="center" style="box-sizing:border-box;text-align:center;font-size:12px;color:#1e293b;padding:8px 6px;white-space:nowrap;vertical-align:top;">1,580억 (6,200명)</td></tr></table></details></td></tr></table><table width="100%" cellpadding="0" cellspacing="0" border="0" style="margin:4px 0;"><tr><td style="height:1px;background:#e2e8f0;font-size:0;line-height:0;">&nbsp;</td></tr></table><table width="100%" cellpadding="0" cellspacing="0" border="0" style="margin-bottom:4px;"><tr><td valign="top" style="padding-top:6px;width:80px;white-space:nowrap;"><span style="font-size:10px;background:#fef3c7;color:#b45309;padding:1px 5px;border-radius:2px;font-weight:700;">여신잔고</span></td><td style="padding-left:8px;"><div style="font-size:13px;color:#94a3b8;line-height:1.7;">잔고 없음</div></td></tr></table>
       </td></tr>
     </table></td></tr>
         </table>
@@ -323,7 +253,7 @@
           </tr>
           <tr><td style="padding:10px 16px;background:#ffffff;border-top:1px solid #fde68a;border-bottom:1px solid #fde68a;"><p style="margin:0 0 5px 0;font-size:11px;font-weight:bold;letter-spacing:0.3px;"><span style="background:#dc2626;color:#fff;padding:2px 6px;font-size:10px;margin-right:5px;border-radius:3px;">⚡ 대응방안</span></p><p style="margin:0;font-size:13px;color:#1e293b;line-height:1.6;font-weight:500;word-break:keep-all;">롯데케미칼 회사채 보유 고객 만기별 잔존 익스포저 산출 → 은행 지급보증부 발행분과 자체 신용 발행분을 구분해 등급 하향 시 영향도 분리 평가 → 롯데그룹 계열 채권 보유 현황 동시 점검 후 신규 판매 라인업 조정 검토</p></td></tr><tr><td style="padding:0;"><table width="100%" cellpadding="0" cellspacing="0" border="0" style="background:#ffffff;">
       <tr><td class="exp-card-td" style="padding:14px 18px;">
-        <p style="margin:0 0 10px 0;"><span style="font-size:11px;font-weight:700;color:#1e293b;">보유 익스포저</span> <span style="font-weight:400;color:#94a3b8;font-size:11px;">기준일: 2026-09-10</span></p>
+        <p style="margin:0 0 10px 0;"><span style="font-size:11px;font-weight:700;color:#1e293b;">보유 익스포저</span> <span style="font-weight:400;color:#94a3b8;font-size:11px;">기준일: 2026-09-09</span></p>
         <table width="100%" cellpadding="0" cellspacing="0" border="0" style="margin-bottom:8px;"><tr><td style="width:80px;border-bottom:1px solid #e2e8f0;">&nbsp;</td><td style="padding-left:8px;border-bottom:1px solid #e2e8f0;"><table cellpadding="0" cellspacing="0" border="0" style="border-collapse:collapse;table-layout:fixed;"><tr><td class="exp-name-td" width="100" style="border-bottom:1px solid #e2e8f0;">&nbsp;</td><td class="exp-val-td" width="205" align="center" style="box-sizing:border-box;text-align:center;padding:2px 6px 5px;font-size:10px;font-weight:700;color:#2563eb;border-bottom:1px solid #e2e8f0;white-space:nowrap;">뱅키스</td><td class="exp-val-td" width="205" align="center" style="box-sizing:border-box;text-align:center;padding:2px 6px 5px;font-size:10px;font-weight:700;color:#8b5e3c;border-bottom:1px solid #e2e8f0;white-space:nowrap;">영업점</td></tr></table></td></tr></table><table width="100%" cellpadding="0" cellspacing="0" border="0" style="margin-bottom:4px;"><tr><td valign="top" style="padding-top:6px;width:80px;white-space:nowrap;"><span style="font-size:10px;background:#ede9fe;color:#5b21b6;padding:1px 5px;border-radius:2px;font-weight:700;">채권잔고</span></td><td style="padding-left:8px;"><table cellpadding="0" cellspacing="0" border="0" style="border-collapse:collapse;table-layout:fixed;"><tr style="border-bottom:1px solid #f8fafc;"><td class="exp-name-td" width="100" style="font-size:12px;font-weight:700;color:#1e293b;padding:8px 6px 8px 0;white-space:nowrap;vertical-align:top;"><div style="max-width:100%;overflow:hidden;text-overflow:ellipsis;white-space:nowrap;">롯데케미칼</div></td><td class="exp-val-td" width="205" align="center" style="box-sizing:border-box;text-align:center;font-size:12px;color:#1e293b;padding:8px 6px;white-space:nowrap;vertical-align:top;">2,180억 (7,640명)</td><td class="exp-val-td" width="205" align="center" style="box-sizing:border-box;text-align:center;font-size:12px;color:#1e293b;padding:8px 6px;white-space:nowrap;vertical-align:top;">1,640억 (3,820명)</td></tr></table></td></tr></table>
       </td></tr>
     </table></td></tr>
